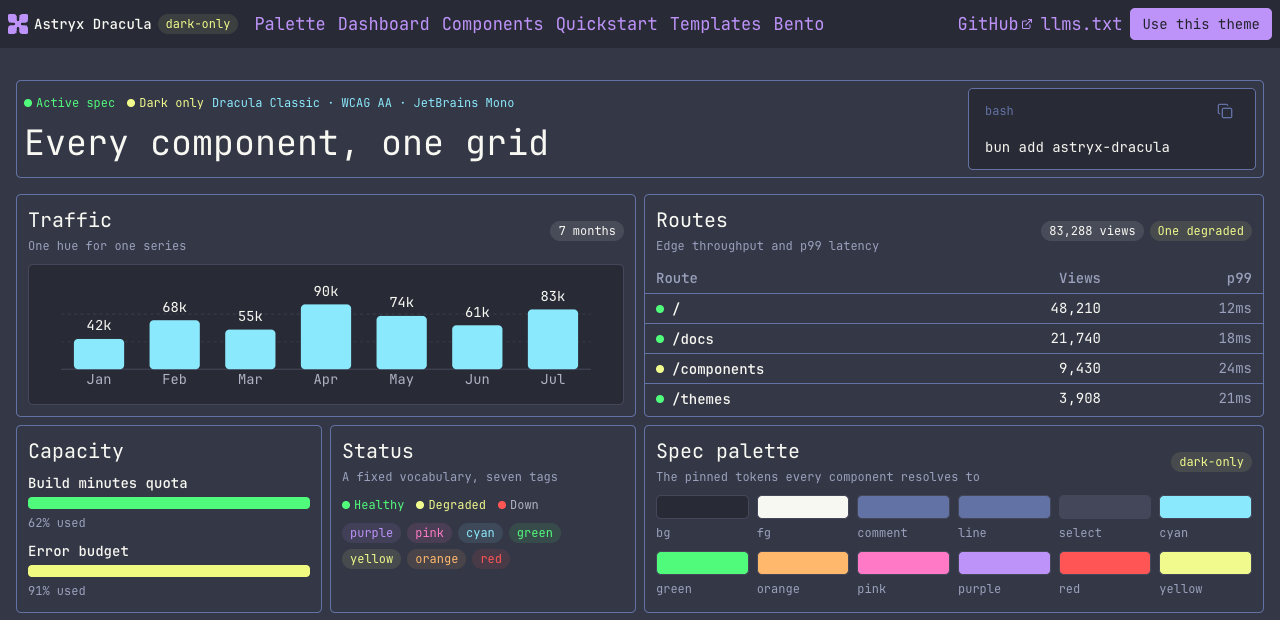
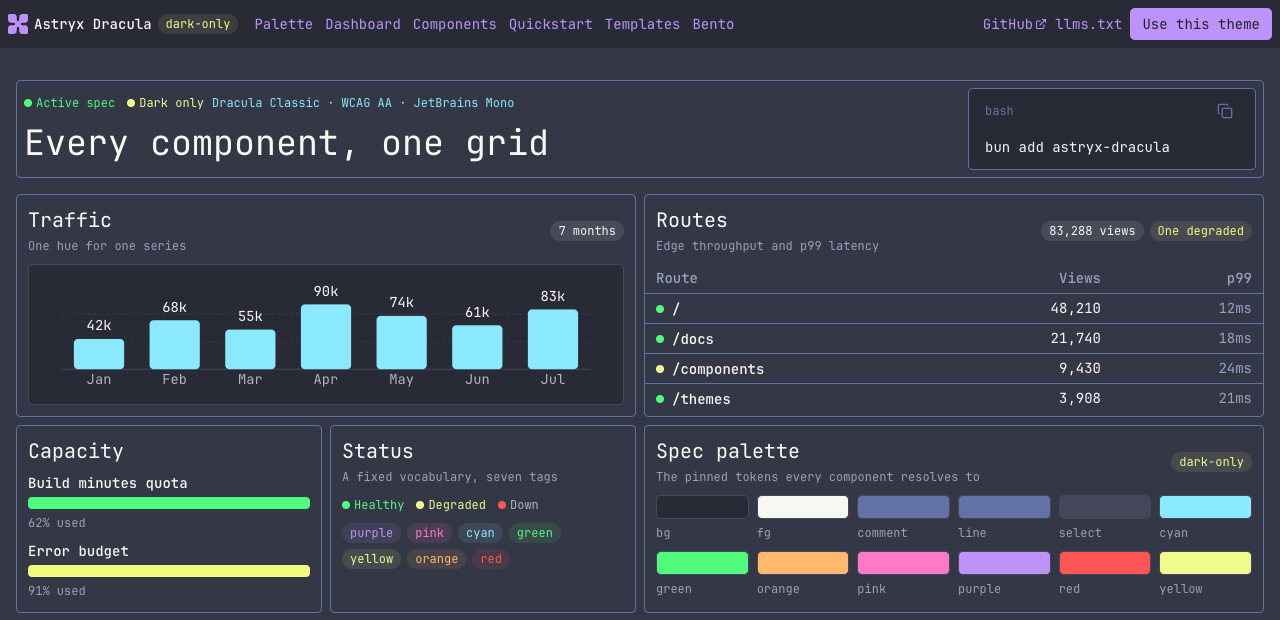
Refresh the screenshot and correct the install guide's coverage
The screenshot was captured before the top-bar links were resized to
match the CTA button, so it showed the nav at the old weight. A pixel
diff against a fresh capture puts every differing pixel in the nav row
(x 255-1121, y 16-33) and nowhere else, which is the whole change.

The README also said the installation guide "covers package, Git, and
manual setup". It does not: the guide is the package install and the
theme activation, and the Git and manual paths it used to describe are
gone.

No version pins here — the guide installs by package name, and the
peer range lives in the published package.

Changed region(s): [[0.1875, 0.0306, 0.6562, 0.0613], [0.75, 0.0306, 0.875, 0.0613]]

diff --git a/README.md b/README.md
@@ -19,7 +19,7 @@ You can also follow the repository's detailed [installation guide](./INSTALL.md)
 
 ## Documentation
 
-- [Installation](./INSTALL.md) covers package, Git, and manual setup.
+- [Installation](./INSTALL.md) covers the package install and theme activation.
 - [Usage](./docs/usage.md) covers integration options and troubleshooting.
 - [Brand reference](./docs/brand.md) documents the palette and semantic decisions.
 
